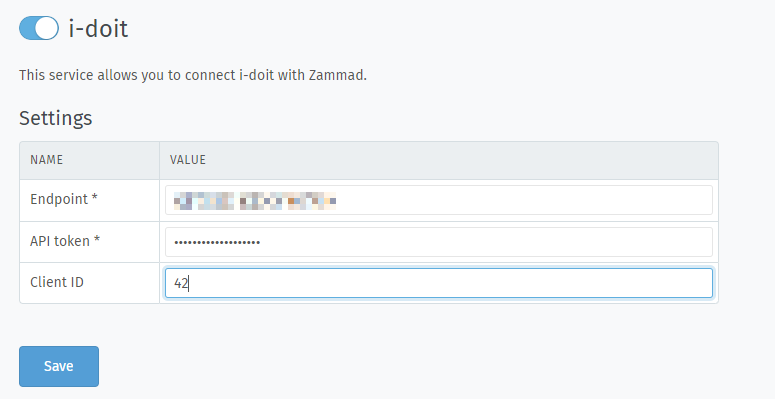
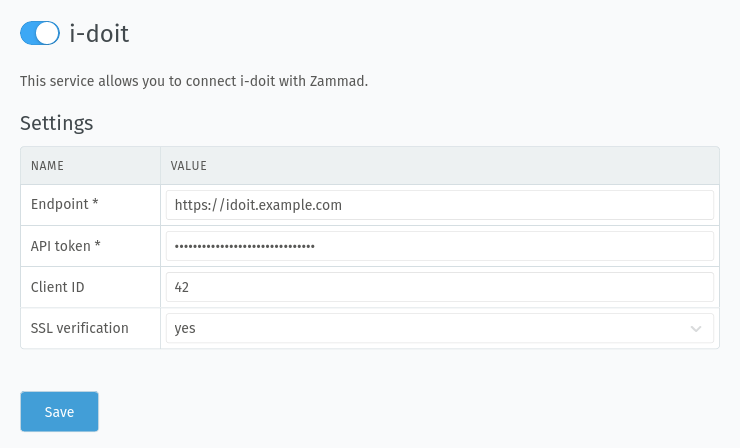
Fixes #309 - Added SSL verification for i-doit

diff --git a/system/integrations/i-doit.rst b/system/integrations/i-doit.rst
@@ -8,7 +8,7 @@ on down to the faceplates on your rack shelves and more.
 
 .. _i-doit: https://www.i-doit.com/
 
-What’s that got to do with Zammad?
+What's that got to do with Zammad?
 Well, if you used tickets to track issues with all that hardware,
 you might start wishing there was a way they could talk to each other.
 
@@ -21,12 +21,12 @@ What users see
 ^^^^^^^^^^^^^^
 
 .. figure:: /images/system/integrations/i-doit/ticket-pane-demo.gif
-   :alt: i-doit integration in Zammad’s ticket pane
+   :alt: i-doit integration in Zammad's ticket pane
    :align: center
 
    The i-doit integration will appear under a new 🖨 tab in the ticket pane.
 
-i-doit integration puts a new tab in Zammad’s ticket pane
+i-doit integration puts a new tab in Zammad's ticket pane
 where you can add links to existing i-doit devices
 for easy reference.
 (See our `user documentation`_ to learn how it works in practice).
@@ -37,8 +37,8 @@ for easy reference.
 How to set it up
 ^^^^^^^^^^^^^^^^
 
-.. note:: 🧩 **Requires i-doit’s** `API Add-on`_.
-   
+.. note:: 🧩 **Requires i-doit's** `API Add-on`_.
+
    Use the following settings:
 
    Active
@@ -74,6 +74,11 @@ Client ID
 
    (Zammad does not require you to enter a value here, but i-doit might!)
 
+SSL verification
+   Here you can decide if the certificate of your i-doit system has to be
+   verified or not. In case you are using custom certificates, please have
+   a look at :doc:`how to add them to Zammad </settings/security/ssl-certificate>`.
+
 2. List / Create Zammad Tickets in i-doit
 -----------------------------------------
 
@@ -81,10 +86,10 @@ What users see
 ^^^^^^^^^^^^^^
 
 .. figure:: /images/system/integrations/i-doit/i-doit-demo.gif
-   :alt: Zammad integration in i-doit’s device view
+   :alt: Zammad integration in i-doit's device view
    :align: center
 
-i-doit’s ticket system integration gives you a way to see
+i-doit's ticket system integration gives you a way to see
 all the tickets for a given device without ever leaving i-doit.
 (See our `user documentation`_ to learn how it works in practice).
 
